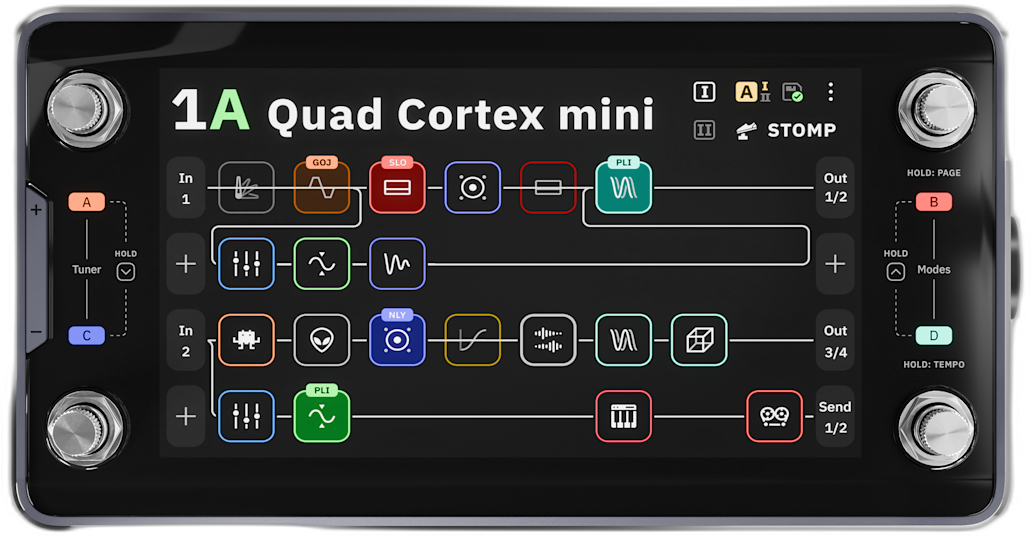
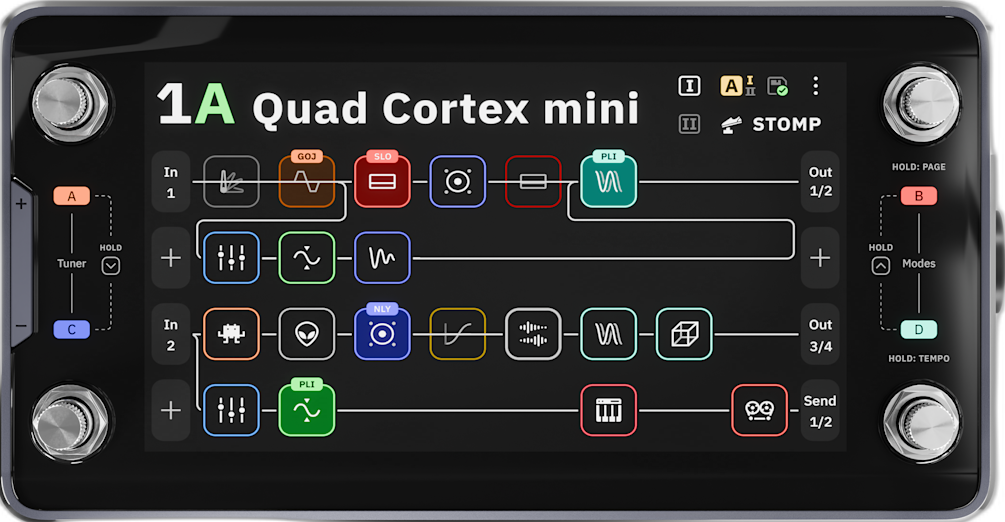
Update neural device images and enhance UI styling
- Updated the image for Mini Cortex and added a new image for Nano Cortex.
- Refactored the neural device data structure to improve maintainability and added support for the new Nano Cortex model.
- Enhanced the styling of the panel expand button for better usability, including increased padding, font size, and updated hover effects.
- Adjusted media query for hiding the expand button on smaller screens.

Changed region(s): [[0.0, 0.0, 1.0, 1.0], [0.1542, 0.1226, 0.8328, 0.2759]]

diff --git a/src/data/devices-brands/neural.ts b/src/data/devices-brands/neural.ts
@@ -1,26 +1,30 @@
 import type { DeviceTemplate } from "../devices";
+import { deviceId } from "../../lib/slug";
+import type { Wdh } from "../../wdh";
+
+type NeuralRowBase = {
+  model: string;
+  wdh: Wdh;
+  image: string | null;
+};
 
 // verified
-const WDH_QUAD_CORTEX: [number, number, number] = [290, 195, 69];
-const WDH_MINI_CORTEX: [number, number, number] = [228, 118, 65];
+export const WDH_QUAD_CORTEX: Wdh = [290, 195, 69];
+export const WDH_MINI_CORTEX: Wdh = [228, 118, 65];
+export const WDH_NANO_CORTEX: Wdh = [144, 103, 62];
 
-export const NEURAL_DEVICE_TEMPLATES: DeviceTemplate[] = [
-  {
-    id: "device-neural-quadcortex",
-    type: "multifx",
-    brand: "Neural DSP",
-    model: "Quad Cortex",
-    name: "Neural DSP Quad Cortex",
-    wdh: WDH_QUAD_CORTEX,
-    image: "neural/quadcortex.png",
-  },
-  {
-    id: "device-neural-minicortex",
-    type: "multifx",
-    brand: "Neural DSP",
-    model: "Mini Cortex",
-    name: "Neural DSP Mini Cortex",
-    wdh: WDH_MINI_CORTEX,
-    image: "neural/minicortex.png",
-  },
+const neuralTemplatesRaw: NeuralRowBase[] = [
+  { model: "Quad Cortex", wdh: WDH_QUAD_CORTEX, image: "quadcortex.png" },
+  { model: "Mini Cortex", wdh: WDH_MINI_CORTEX, image: "minicortex.png" },
+  { model: "Nano Cortex", wdh: WDH_NANO_CORTEX, image: "neural-nano-cortex.png" },
 ];
+
+export const NEURAL_DEVICE_TEMPLATES: DeviceTemplate[] = neuralTemplatesRaw.map((d) => ({
+  id: deviceId("neural", d.model),
+  type: "multifx",
+  brand: "Neural DSP",
+  model: d.model,
+  name: `Neural DSP ${d.model}`,
+  wdh: d.wdh,
+  image: d.image ? `neural/${d.image}` : null,
+}));

diff --git a/src/App.css b/src/App.css
@@ -59,18 +59,25 @@ body.catalog-dragging .catalog-panel {
 
 .panel-expand-btn {
   margin-left: auto;
-  padding: 4px 8px;
-  color: #666;
-  background: transparent;
-  border: 1px solid #ccc;
+  padding: 6px 10px;
+  color: #444;
+  background: rgba(0, 0, 0, 0.04);
+  border: 1px solid rgba(0, 0, 0, 0.15);
   border-radius: 4px;
   cursor: pointer;
   transition: background 0.15s, color 0.15s;
-  font-size: 0.85rem;
+  font-size: 1rem;
+  min-width: 36px;
+  min-height: 32px;
+  display: flex;
+  align-items: center;
+  justify-content: center;
 }
 
 .panel-expand-btn svg {
   display: block;
+  width: 0.9em;
+  height: 0.9em;
 }
 
 .panel-expand-btn:hover {
@@ -83,8 +90,8 @@ body.catalog-dragging .catalog-panel {
   max-width: 800px;
 }
 
-/* Hide expand button on mobile where panel is already full width */
-@media (max-width: 767px) {
+/* Hide expand button only on very small screens where layout is constrained */
+@media (max-width: 480px) {
   .panel-expand-btn {
     display: none;
   }
